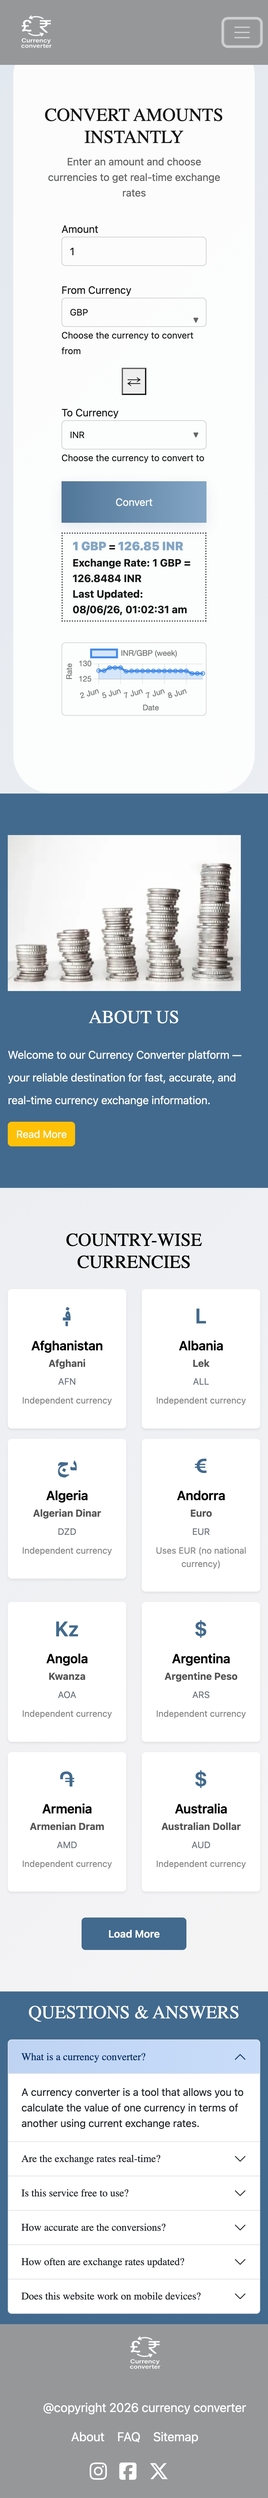
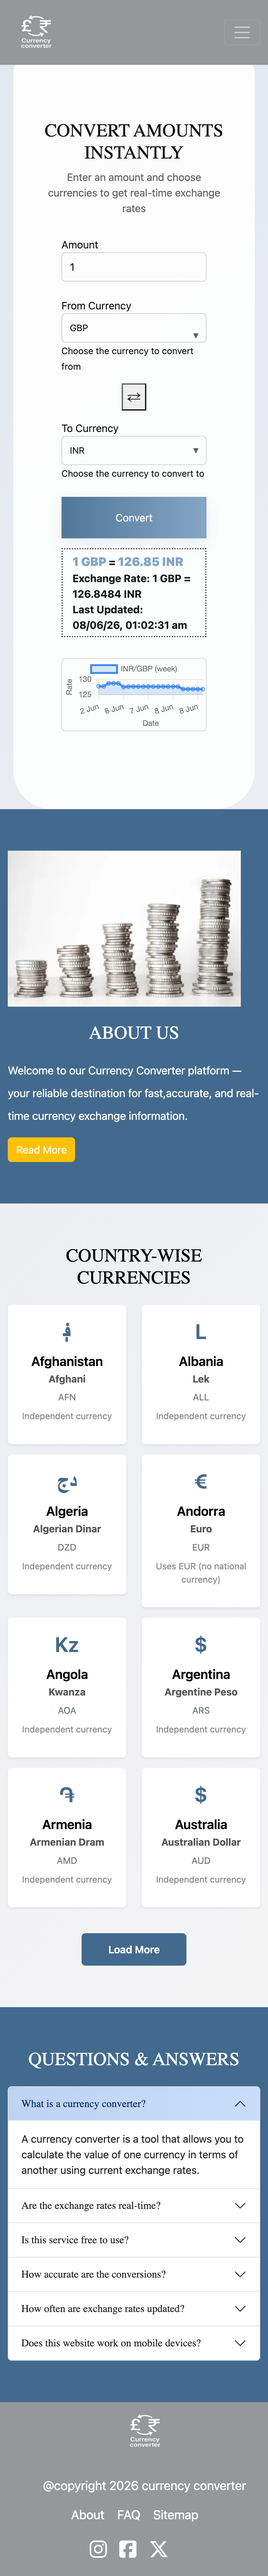
change mobile screens

diff --git a/assets/js/script.js b/assets/js/script.js
@@ -1,7 +1,5 @@
 const toggleBtn = document.getElementById("theme-toggle");
-
 const icon = toggleBtn.querySelector("i");
-const API_KEY = "1be45318-dd83-441e-af72-469312d8392f";
 
 // ✅ Load saved theme
 let savedTheme = localStorage.getItem("theme") || "light";
@@ -14,7 +12,6 @@ icon.classList.add(savedTheme === "dark" ? "fa-sun" : "fa-moon");
 // ✅ Toggle theme
 document.getElementById("theme-toggle").addEventListener("click", () => {
 	let currentTheme = document.body.getAttribute("data-theme");
-
 	let newTheme = currentTheme === "dark" ? "light" : "dark";
 
 	// change theme
@@ -475,7 +472,7 @@ document.querySelectorAll(".navbar-collapse .nav-link").forEach((link) => {
 	});
 });
 
-
+// About section read more text
 document.querySelector('[data-toggle="read-more"]').addEventListener('click', function () {
   const moreText = document.querySelector('.more-text');
 
